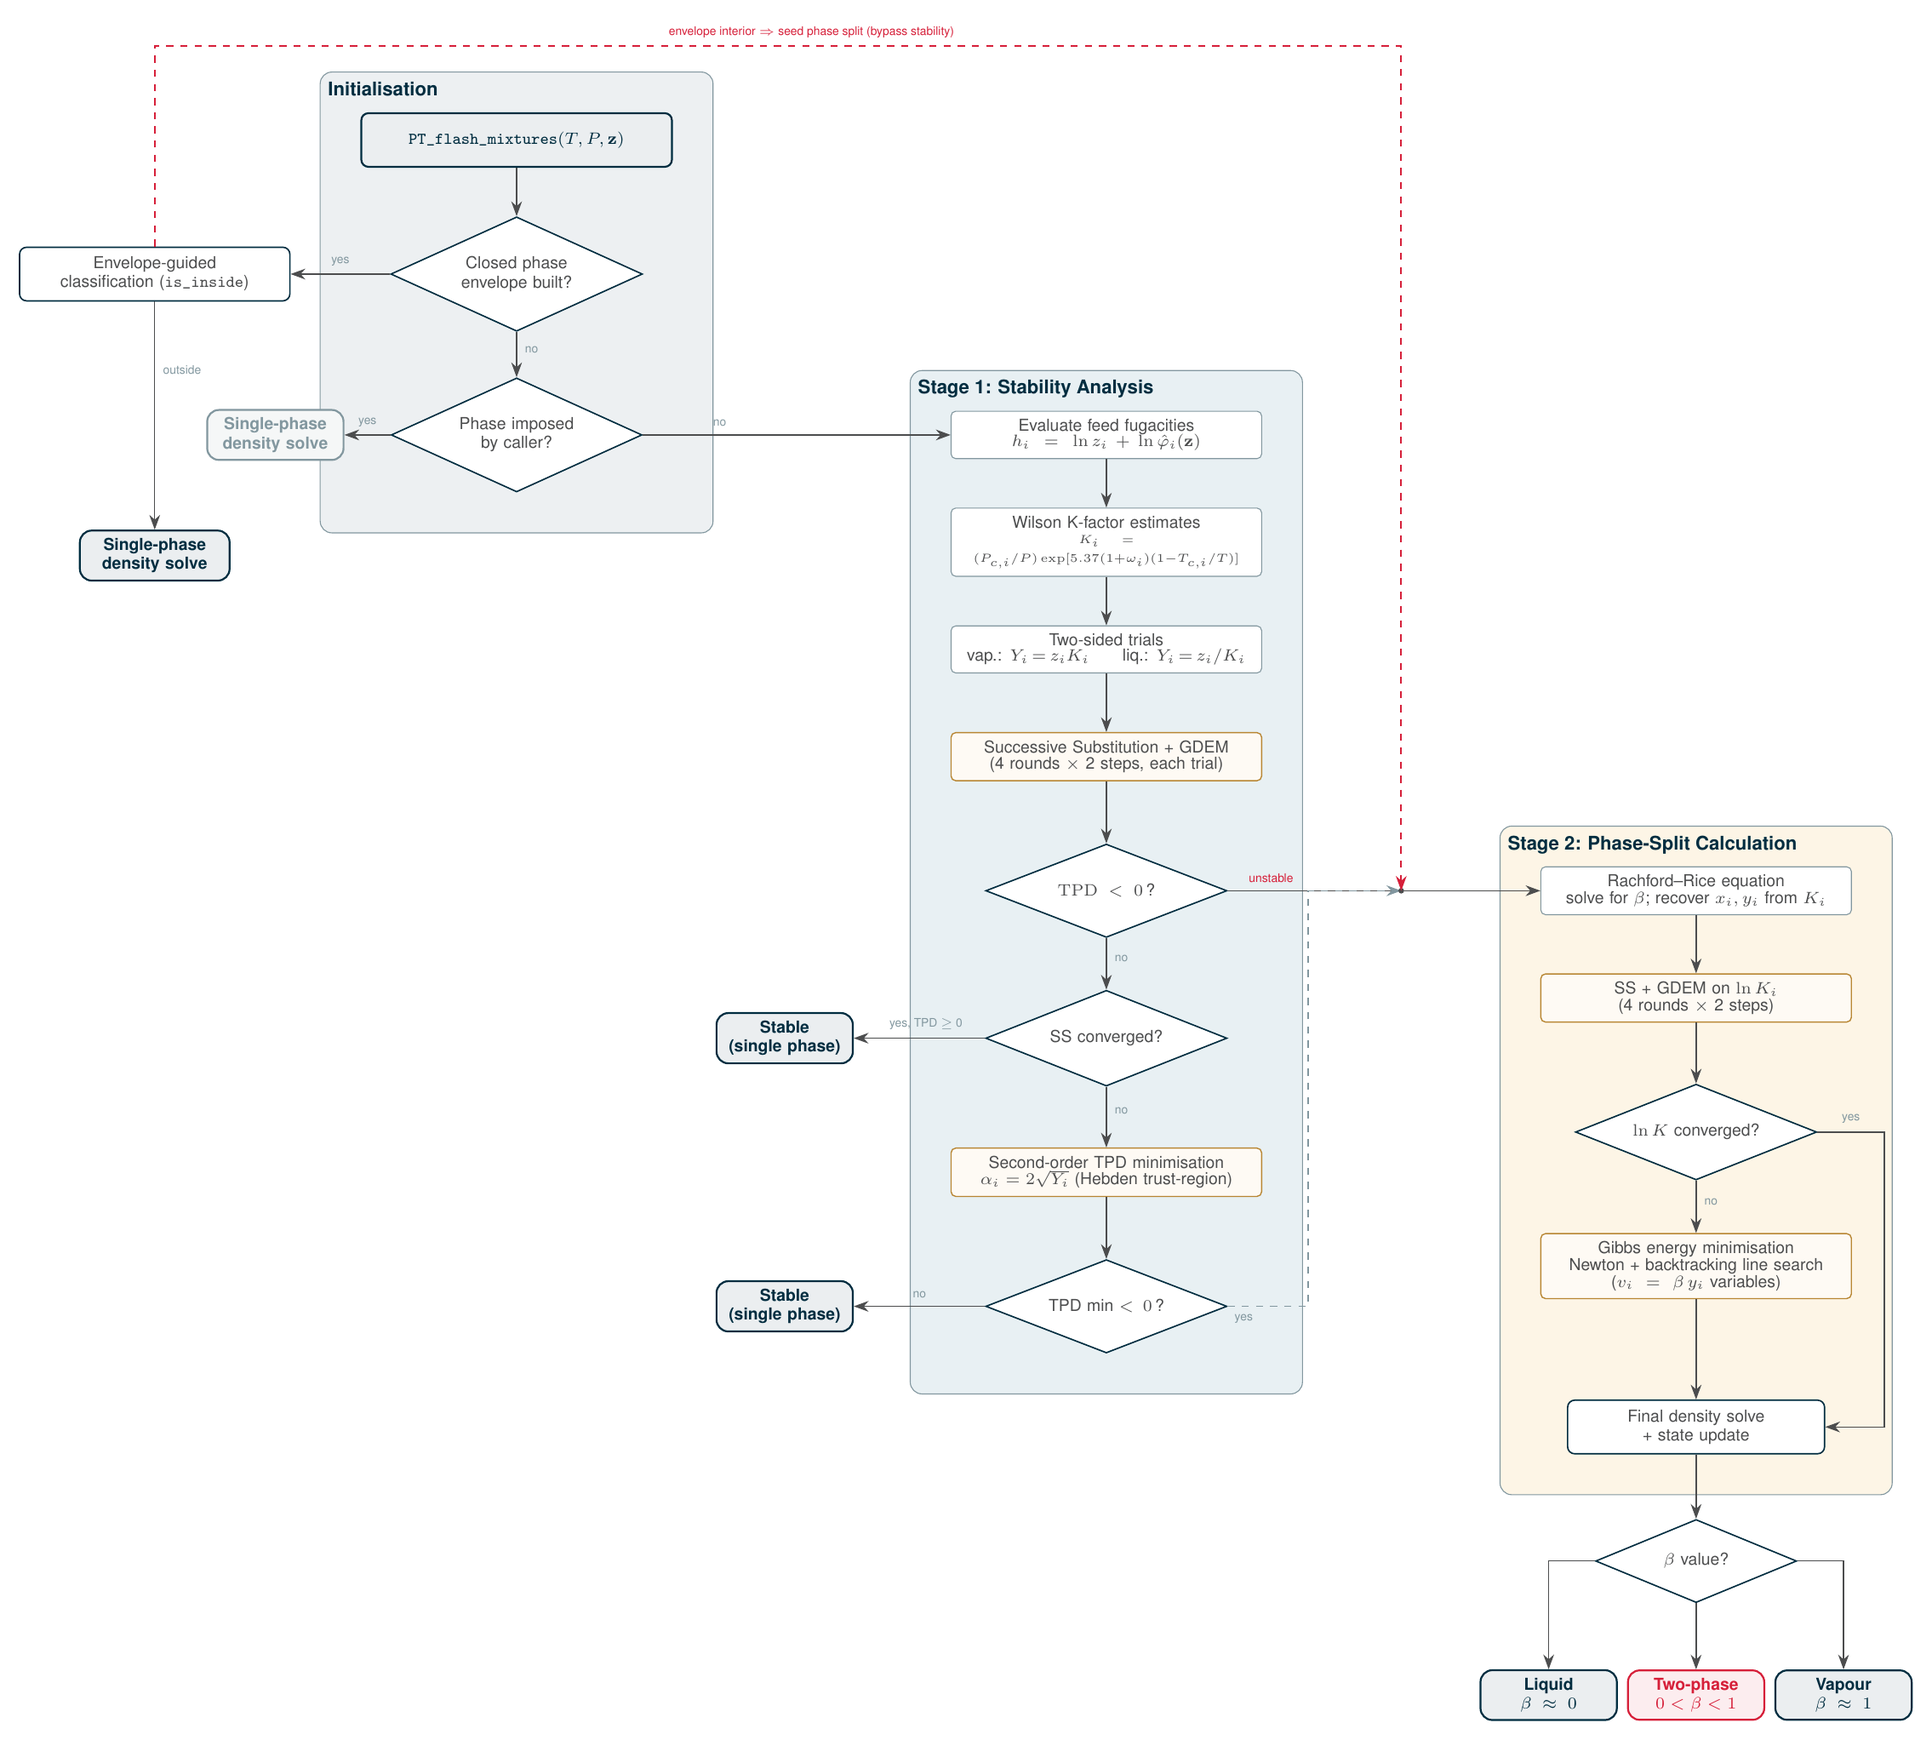
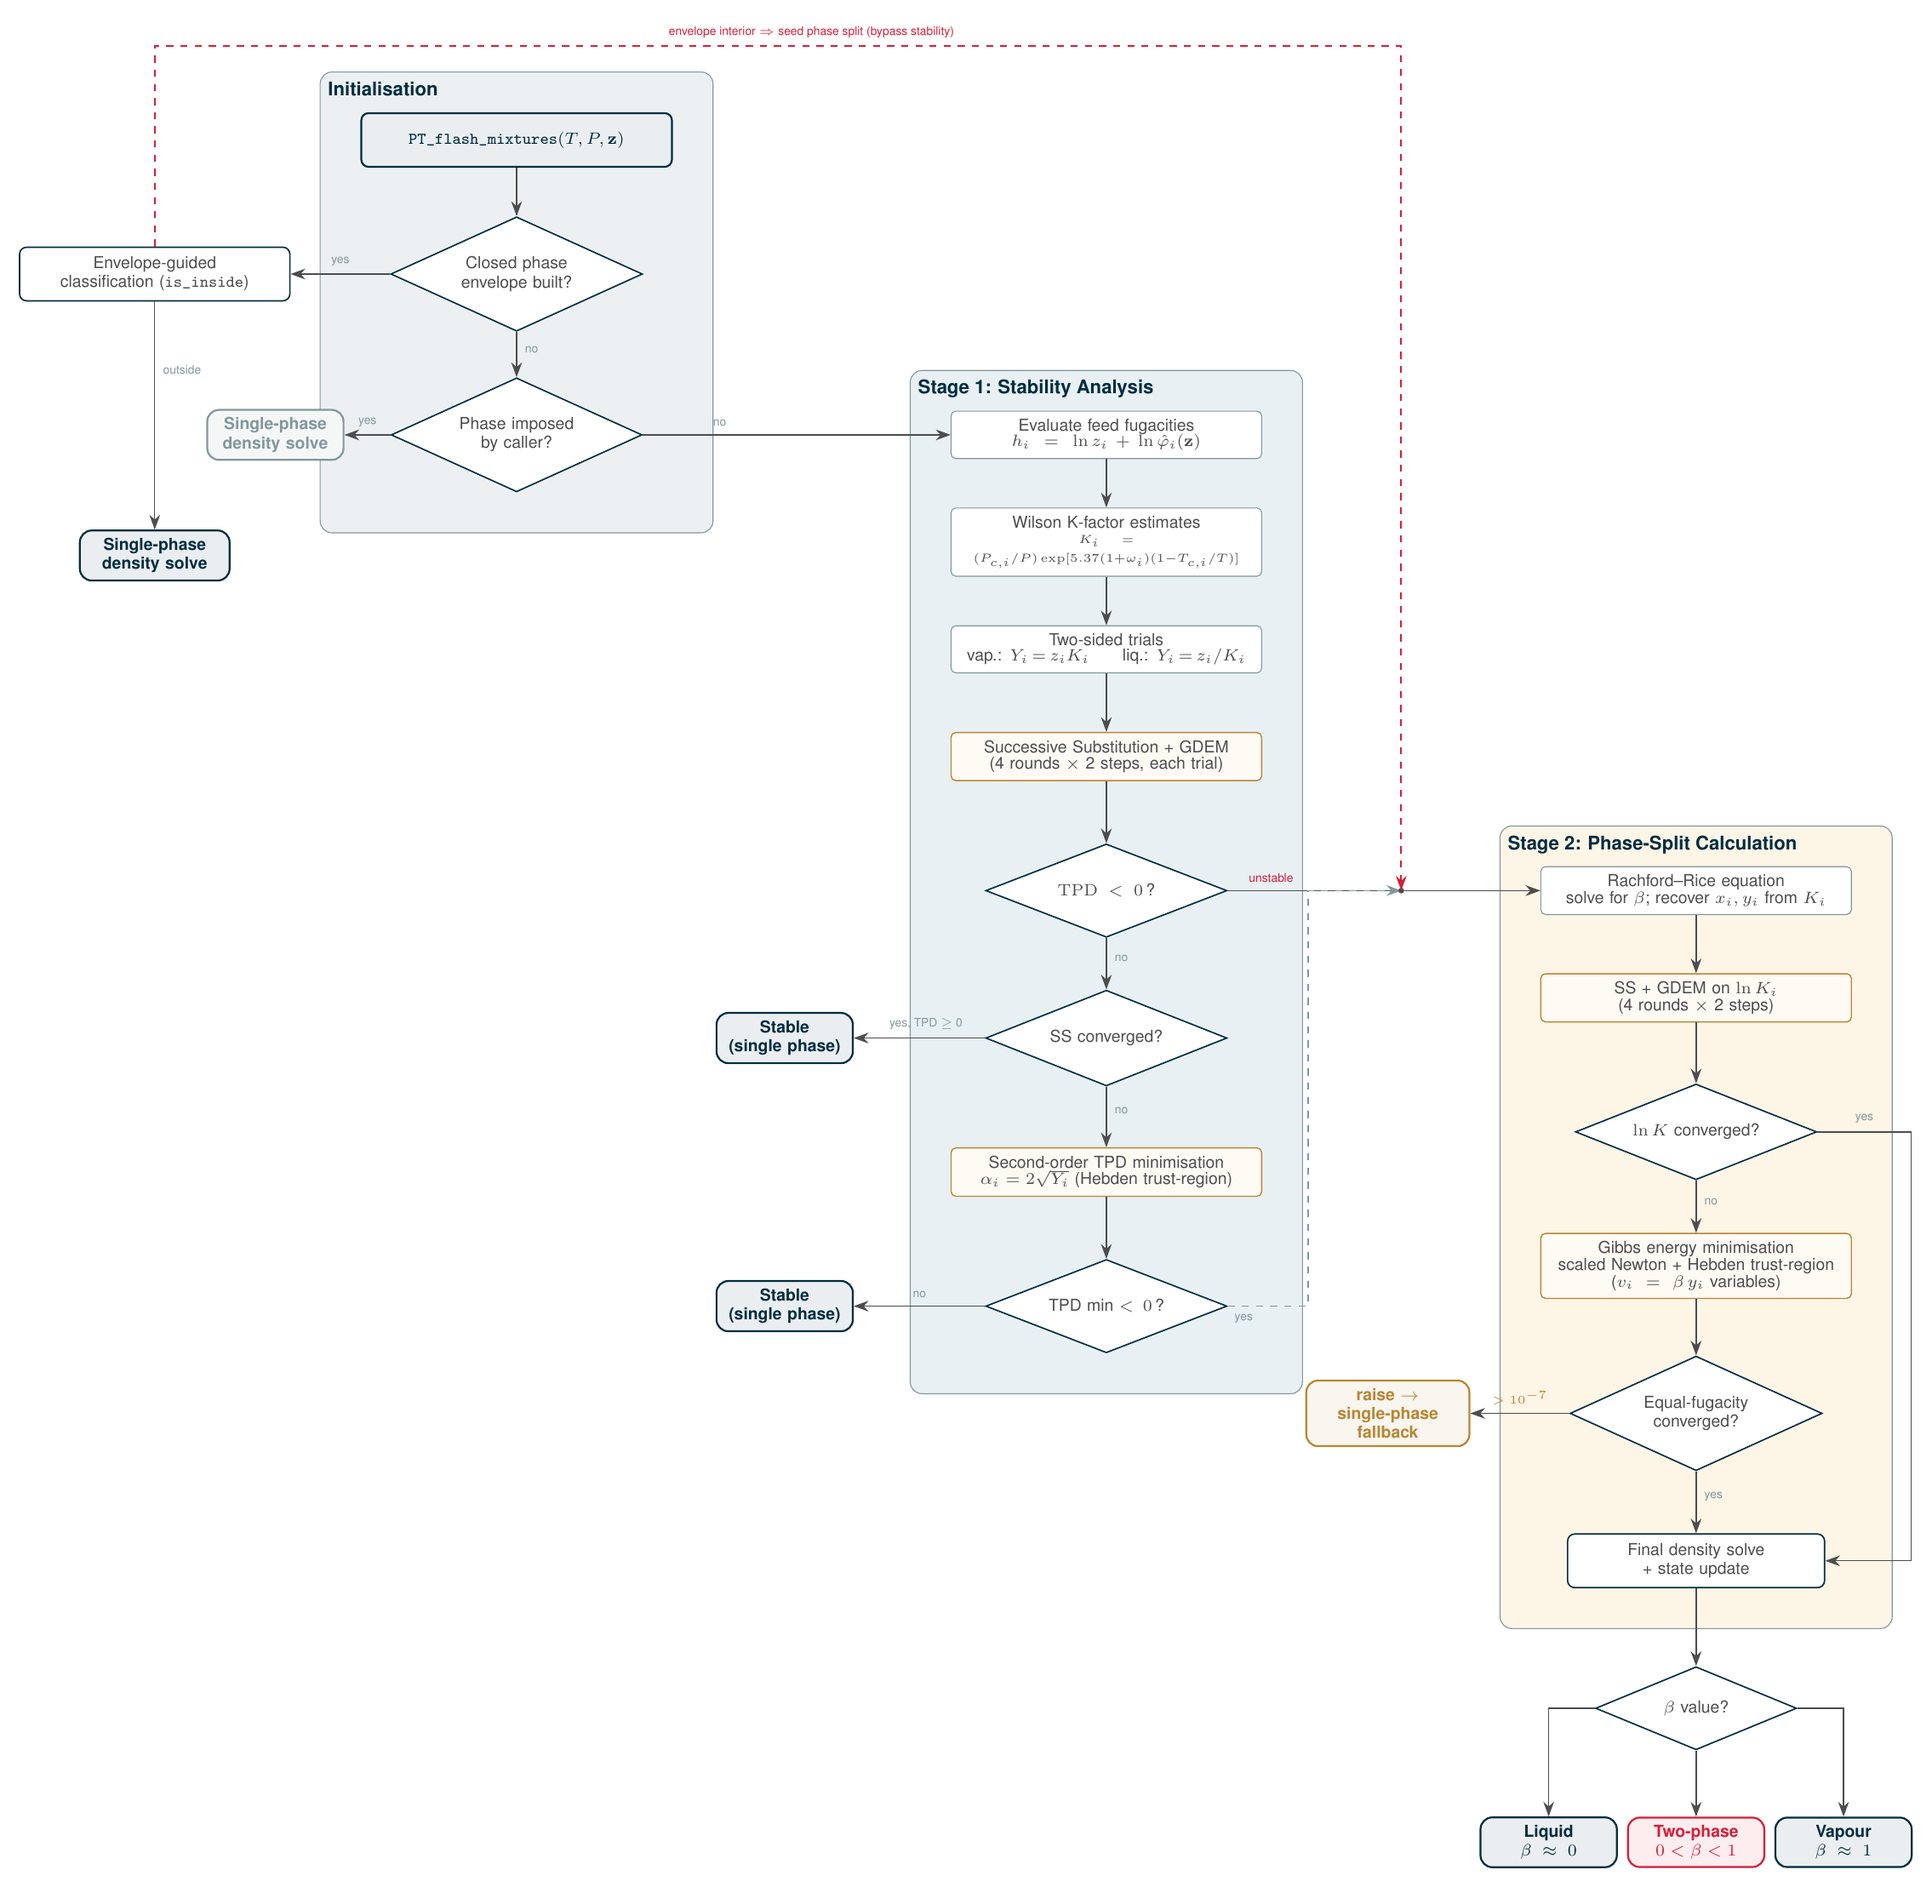
docs(mixtures): reflect #3170 phase-split solver changes
Update the Stage-2 description and flowchart to match the solver rewrite in
#3170 (the doc previously described the pre-#3170 behaviour).

- Mixtures.rst "Second-order Gibbs energy minimisation": replace the plain
  Newton + backtracking description with the dia = sqrt(z/(xy)) scaling, the
  Hebden restricted-step (positive-definiteness diagonal shift + trust region),
  the final-state convergence gate (raise if max|ln f_V - ln f_L| > 1e-7), and
  the PT_flash_mixtures single-phase fallback. Convergence criterion stated on
  the equal-fugacity residual (50 iterations, one restart).
- Flowchart: Gibbs node now reads "scaled Newton + Hebden trust-region"; added
  an "Equal-fugacity converged?" gate whose failure exit is "raise ->
  single-phase fallback". PNG regenerated from the TikZ source.

Holds with #3170 — do not merge before it.

diff --git a/Web/fluid_properties/pt-flash-flowchart.tex b/Web/fluid_properties/pt-flash-flowchart.tex
@@ -162,34 +162,44 @@
 
 \node[iterbox] at (176mm, -168mm) (gibbs)
   {Gibbs energy minimisation\\[-0.3mm]
-   Newton + backtracking line search\\[-0.3mm]
+   scaled Newton + Hebden trust-region\\[-0.3mm]
    ($v_i\!=\!\beta\,y_i$ variables)};
 
+\node[decision] at (176mm, -190mm) (d_gate) {Equal-fugacity\\converged?};
+
 \node[process, minimum width=38mm, text width=36mm]
-  at (176mm, -192mm) (final_update)
+  at (176mm, -212mm) (final_update)
   {Final density solve\\+ state update};
 
 % Stage 2 vertical spine
 \draw[arr] (rr) -- (ss2);
 \draw[arr] (ss2) -- (d_ss2);
 \draw[arr] (d_ss2.south) -- node[annot, right, pos=0.4] {no} (gibbs);
-\draw[arr] (gibbs) -- (final_update);
+\draw[arr] (gibbs) -- (d_gate);
+\draw[arr] (d_gate.south) -- node[annot, right, pos=0.4] {yes} (final_update);
 
 % Yes bypass: d_ss2 → final_update (route right of spine)
-\draw[arr] (d_ss2.east) -- node[annot, above] {yes} ++(10mm,0)
+\draw[arr] (d_ss2.east) -- node[annot, above] {yes} ++(14mm,0)
   |- (final_update.east);
+
+% Convergence gate (#3168): a non-converged split is never published — the
+% solver raises, and the blind flash then falls back to a single-phase solve.
+\node[terminal=amber!80!black, minimum width=24mm, text width=22mm]
+  at (130mm, -190mm) (gate_fail) {raise $\to$\\single-phase\\fallback};
+\draw[arr] (d_gate.west) -- node[annot, above, pos=0.5]
+  {\textcolor{amber!80!black}{$>10^{-7}$}} (gate_fail);
 
 % Result classification
 \node[decision, minimum width=30mm, text width=20mm]
-  at (176mm, -212mm) (d_beta) {$\beta$ value?};
+  at (176mm, -234mm) (d_beta) {$\beta$ value?};
 \draw[arr] (final_update) -- (d_beta);
 
 \node[terminal=navy, minimum width=20mm, text width=18mm]
-  at (154mm, -232mm) (res_liq) {Liquid\\$\beta \approx 0$};
+  at (154mm, -254mm) (res_liq) {Liquid\\$\beta \approx 0$};
 \node[terminal=cred, minimum width=20mm, text width=18mm]
-  at (176mm, -232mm) (res_2ph) {Two-phase\\$0\!<\!\beta\!<\!1$};
+  at (176mm, -254mm) (res_2ph) {Two-phase\\$0\!<\!\beta\!<\!1$};
 \node[terminal=navy, minimum width=20mm, text width=18mm]
-  at (198mm, -232mm) (res_vap) {Vapour\\$\beta \approx 1$};
+  at (198mm, -254mm) (res_vap) {Vapour\\$\beta \approx 1$};
 
 \draw[arr] (d_beta.west) -| (res_liq);
 \draw[arr] (d_beta.south) -- (res_2ph);
@@ -236,7 +246,7 @@
         rounded corners=5pt, fill=stage1bg, draw=slate,
         line width=0.4pt, inner sep=6mm] (s1box) {};
   % Stage 2 box
-  \node[fit=(rr)(ss2)(d_ss2)(gibbs)(final_update),
+  \node[fit=(rr)(ss2)(d_ss2)(gibbs)(d_gate)(final_update),
         rounded corners=5pt, fill=stage2bg, draw=slate,
         line width=0.4pt, inner sep=6mm] (s2box) {};
 \end{scope}

diff --git a/Web/fluid_properties/Mixtures.rst b/Web/fluid_properties/Mixtures.rst
@@ -367,11 +367,33 @@ Appendix B) are:
    + \beta\,\left(\frac{\partial \ln \hat{\varphi}_i^{(L)}}{\partial n_j}\right)_{T,P}
    + (1-\beta)\,\left(\frac{\partial \ln \hat{\varphi}_i^{(V)}}{\partial n_j}\right)_{T,P} - 1
 
-The Newton step :math:`\Delta\mathbf{v} = -\mathbf{H}^{-1}\mathbf{g}` is
-accepted only if the Gibbs energy decreases; otherwise the step is halved
-(backtracking line search).  Feasibility is maintained by scaling the step so
-that all mole numbers remain positive.  Convergence requires
-:math:`\max_i |g_i| < 10^{-9}`, with a maximum of 30 iterations.
+The raw Newton system :math:`\mathbf{H}\,\Delta\mathbf{v} = -\mathbf{g}` is
+poorly conditioned near the mixture critical point and for wide-boiling
+mixtures, so it is solved with conditioning and a restricted step rather than a
+plain Newton iteration:
+
+* **Diagonal scaling.** The system is rescaled by
+  :math:`d_i = \sqrt{z_i / (x_i y_i)}` (Michelsen :cite:`Michelsen-BOOK-2007`,
+  Appendix B), i.e. :math:`\tilde{\mathbf{H}} = \mathbf{D}^{-1}\mathbf{H}\mathbf{D}^{-1}`
+  and :math:`\tilde{\mathbf{g}} = \mathbf{D}^{-1}\mathbf{g}`, which makes the
+  Newton direction well-scaled.
+* **Hebden restricted step.** A diagonal shift :math:`\lambda \geq 0` is added so
+  that :math:`\tilde{\mathbf{H}} + \lambda\mathbf{I}` is positive definite —
+  guaranteeing a descent direction even where the reduced Hessian is indefinite
+  :cite:`Hebden-1973` — and the step is kept within a trust region whose radius
+  is adapted from the ratio of actual to predicted Gibbs-energy reduction.  A
+  step is accepted only if the Gibbs energy decreases, and the mole numbers are
+  kept positive.
+
+The iteration converges when
+:math:`\max_i |\ln \hat{f}_i^{(V)} - \ln \hat{f}_i^{(L)}| < 10^{-9}` (up to 50
+iterations with one restart).  **The equal-fugacity residual is re-checked on
+the final state**: if it still exceeds :math:`10^{-7}`, the solver raises rather
+than publishing a non-equilibrium split, restoring the legacy "no silent wrong
+answer" contract.  In the blind flash, such a failure — most often a stability
+false-positive at a genuinely single-phase state — is caught by
+``PT_flash_mixtures``, which falls back to a single-phase density solve; any
+other error propagates.
 
 .. _legacy-algorithm:
 
